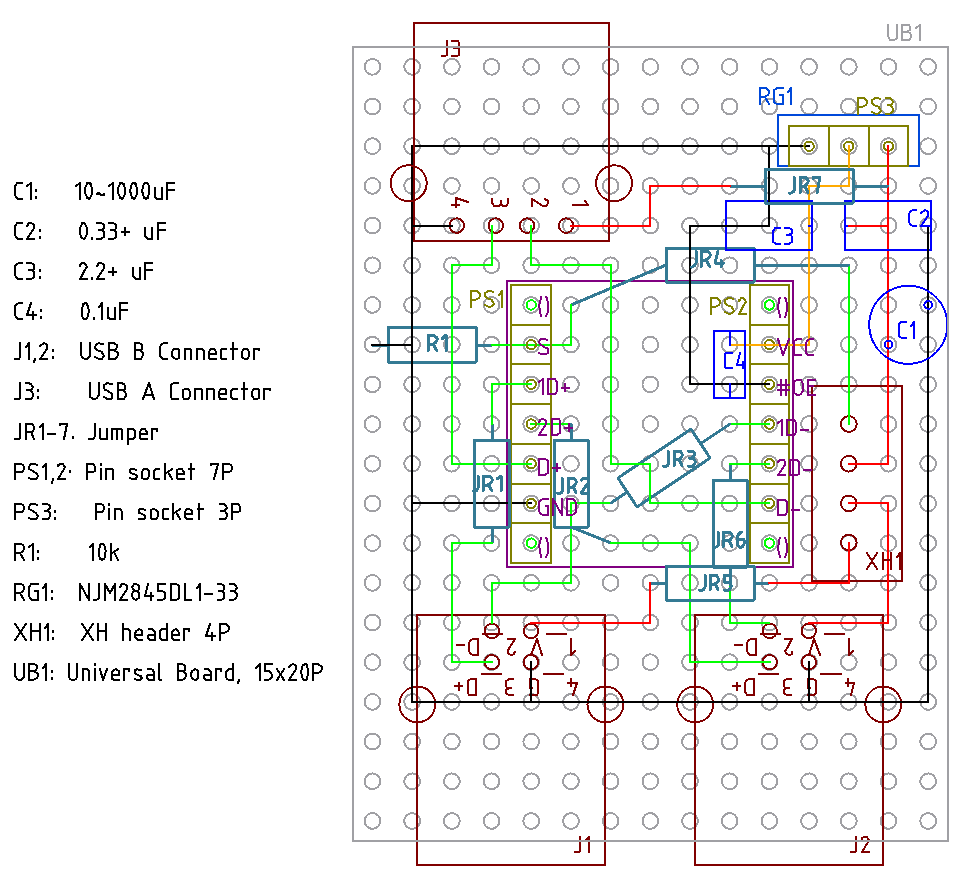
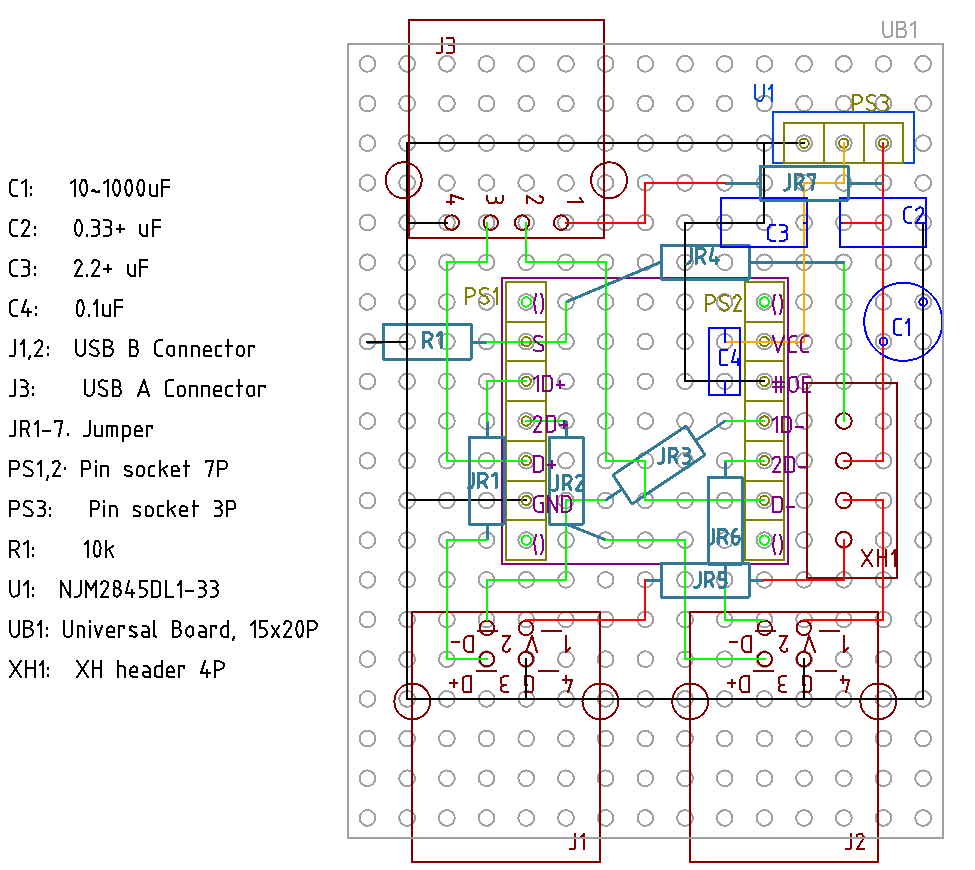
update

Changed region(s): [[0.0, 0.0, 0.9897, 0.9931], [0.0, 0.1862, 0.0309, 0.2172]]

diff --git a/USBSwitcher/TC7USB40FT.md b/USBSwitcher/TC7USB40FT.md
@@ -79,4 +79,22 @@ TC7USB40FT には一応パスコンを付けて、完了となる。
 
 仮部品表
 
-| 
+| 記号   | 品番、品名など                            | 個数  |
+| ---    | ------                                    | ---   |
+| C1     | 100uF 前後で適当                          | 1     |
+| C2     | セラコン 0.33uF 以上                      | 1     |
+| C3     | セラコン 2.2uF 以上                       | 1     |
+| C4     | セラコン 0.1uF                            | 1     |
+| J1,2   | USB B コネクタ                            | 2     |
+| J3     | USB A コネクタ                            | 1     |
+| JR1-7  | ジャンパな何か                            | 7     |
+| PS1,2  | ピンソケット 7P                           | 2     |
+| PS3    | ピンソケット 3P                           | 1     |
+| R1     | 10kΩ                                     | 1     |
+| U1     | NJM2845DL1-33                             | 1     |
+| U2     | TC7YSB4OFT                                | 1     |
+|        | スイッチ、ケーブル関連                    |       | 
+| SW1A   | トグルスイッチ 2回路 on-on                | 1     |
+|        | XH ハウジング 4P                          | 1     |
+|        | スリムロボットケーブル 4芯                | 20~30cm |
+
